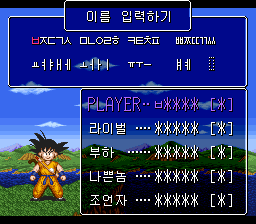
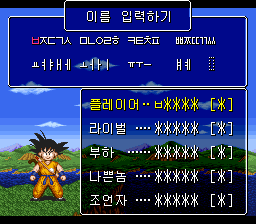
fix: 돌격편 v1.4 를 PLAYER 를 「플레이어」로 바꾼 빌드로 바꾸기
이름 목록 첫 줄만 영어 PLAYER 로 남아 있던 것을 「플레이어」로 바꾼 v1.4
IPS(CRC32 4B766A85)로 바꾼다. 알리기 전에 같은 날 바꾼 빌드라, 먼저 올린
070FE484 는 웹 패처가 이전 빌드로 알아보게 남긴다. 패치 노트·비교 화면·
제작 노트도 새 빌드에 맞춘다.

Changed region(s): [[0.3438, 0.4062, 0.7812, 0.5], [0.8125, 0.4375, 0.9062, 0.5]]

diff --git a/src/lib/rom-patch.ts b/src/lib/rom-patch.ts
@@ -39,8 +39,10 @@ export const GOKUDEN_TOTSUGEKI: RomSpec = {
   header: { title: 'SFX DBZ TOTSUGEKIHEN', mapMode: 0x30, cartType: 0x02, romSize: 0x0b },
   patchedSize: 4194304,
   original: { crc32: 'D531289B', md5: '8BD89634D1B2205B1E7EF016485C0076' },
-  patched: { crc32: '070FE484', md5: '71C606DECD7E2A88C73D4D6B0B46C46C' },
+  patched: { crc32: '4B766A85', md5: 'A61F61C75CB013CCBC6368122AEFBA7B' },
   previous: [
+    // The first v1.4 build, replaced the same day before the release was announced.
+    { crc32: '070FE484', md5: '71C606DECD7E2A88C73D4D6B0B46C46C' },
     { version: 'v1.3', crc32: 'FC7FB902', md5: 'AEAA197ABBBF7F0C3546F7163D834386' },
     { version: 'v1.2', crc32: 'A939C4F8', md5: 'AE259E14C8C6B9853C4C76D0E2EB75D0' },
     // The first v1.2 build, replaced before the release was announced.

diff --git a/src/lib/kr-patches.ts b/src/lib/kr-patches.ts
@@ -156,7 +156,7 @@ export const TOTSUGEKI_PATCH = krPatch<SfcPatch>({
     {
       version: '1.4',
       date: '2026-11-07',
-      rom: { size: 4194304, crc32: '070FE484', md5: '71C606DECD7E2A88C73D4D6B0B46C46C' },
+      rom: { size: 4194304, crc32: '4B766A85', md5: 'A61F61C75CB013CCBC6368122AEFBA7B' },
     },
     {
       version: '1.3',
